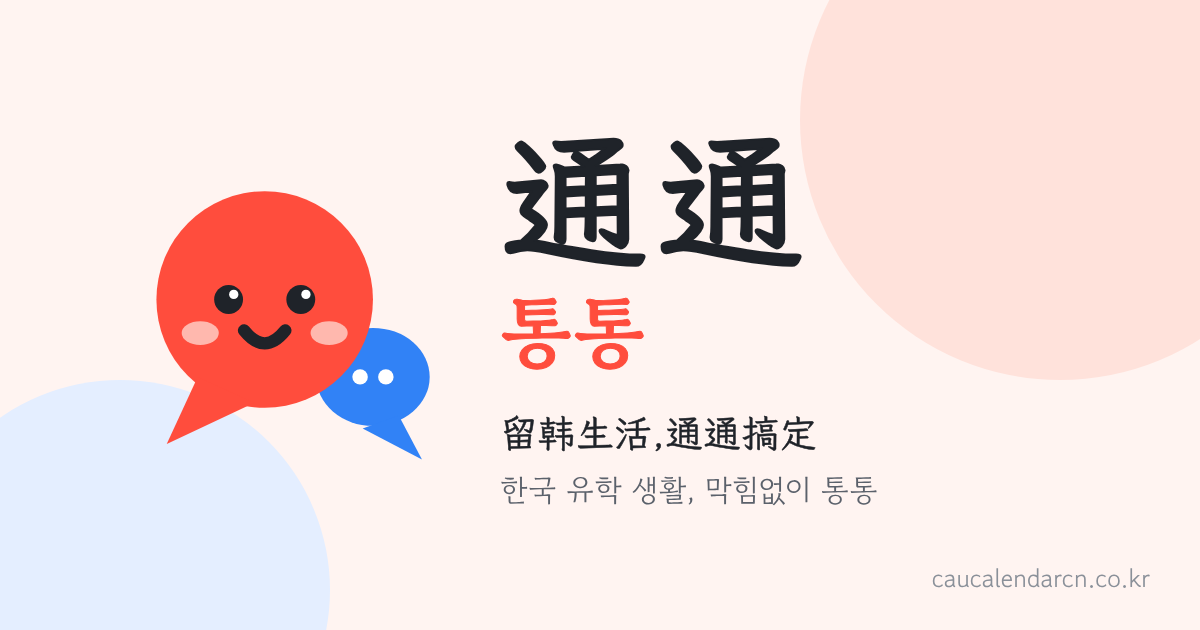
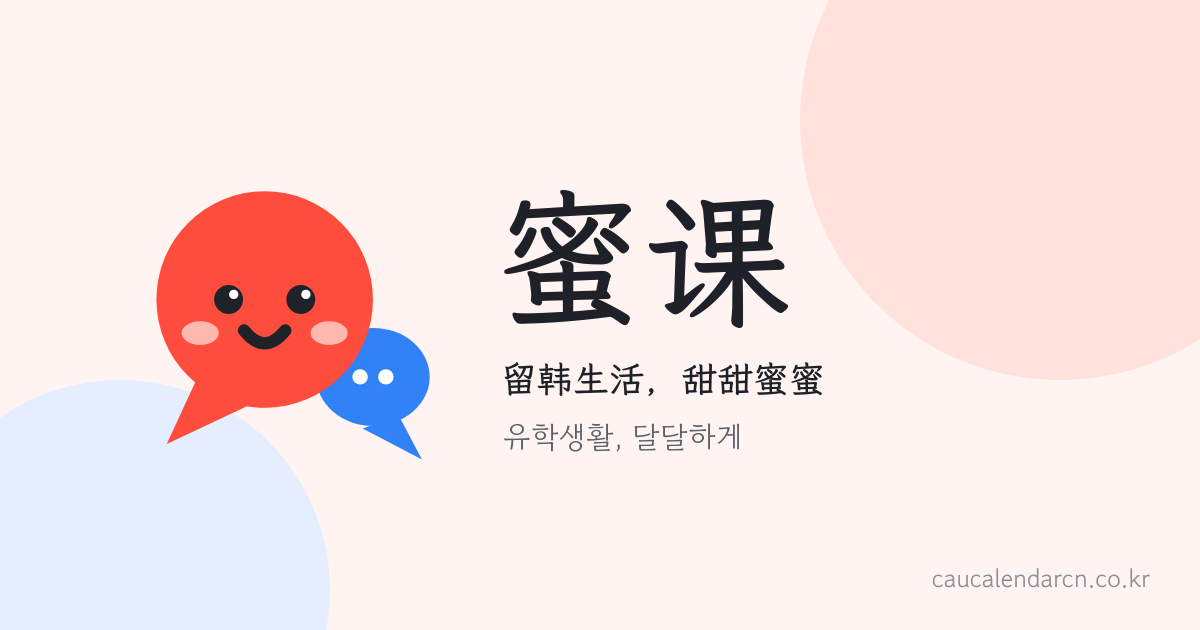
사이트명 通通→蜜课 변경, 슬로건·og 이미지 교체

Changed region(s): [[0.4008, 0.2111, 0.7092, 0.6333], [0.4008, 0.6635, 0.6783, 0.7238], [0.4008, 0.754, 0.74, 0.8143]]

diff --git a/caucalendarcn/i18n.js b/caucalendarcn/i18n.js
@@ -14,7 +14,7 @@ window.I18N = (function () {
   const D = {
     zh: {
       // ---- 공통 ----
-      brand_name: "通通",
+      brand_name: "蜜课",
       tab_cal: "日历", tab_rev: "点评", tab_board: "广场",
       login: "登录", logout: "退出", close: "关闭", cancel: "取消",
       loading: "加载中…",
@@ -22,7 +22,7 @@ window.I18N = (function () {
       lang_aria: "切换为韩语",
 
       // ---- 학사일정 ----
-      title_cal: "学期日历 · 通通",
+      title_cal: "学期日历 · 蜜课",
       cal_eyebrow: "2026年秋季学期",
       cal_h1: "学期日历",
       cal_sub: "整理自学校官方学事日程,按时间顺序列出选课、缴费、考试等重要日期。点击日期查看详情,可一键添加到 Google 日历。",
@@ -41,7 +41,7 @@ window.I18N = (function () {
       "tag_假期": "假期", "tag_截止": "截止", "tag_学期": "学期",
 
       // ---- 강의평 ----
-      title_rev: "课程点评 · 通通",
+      title_rev: "课程点评 · 蜜课",
       rev_eyebrow: "中国留学生课程点评",
       rev_h1: "课程点评",
       rev_sub: "写下你上过的课程名、教授和学分,以及真实的课程评价,所有同学都能看到。",
@@ -76,7 +76,7 @@ window.I18N = (function () {
 
       // ---- 문의(Q&A) ----
       qna_link: "意见反馈 · 问答",
-      title_qna: "意见反馈 · 通通",
+      title_qna: "意见反馈 · 蜜课",
       qna_eyebrow: "意见反馈 · 问答",
       qna_h1: "意见反馈",
       qna_sub: "对网站有建议、发现错误或有疑问,都可以在这里留言,运营者会回复。所有留言均为匿名,所有人可见。",
@@ -97,7 +97,7 @@ window.I18N = (function () {
       qna_footer: "留言将保存在服务器(Supabase)并对所有访客公开,请勿填写真实姓名或敏感信息。",
 
       // ---- 게시판 ----
-      title_board: "广场 · 通通",
+      title_board: "广场 · 蜜课",
       board_h1: "广场",
       refresh: "刷新", write_post: "写帖子",
       title_ph: "标题", body_ph: "请勿填写他人真实姓名、联系方式等个人信息。",
@@ -129,7 +129,7 @@ window.I18N = (function () {
       badge_me: "我", badge_anon: "匿",
       ago_now: "刚刚",
       ago_min: (n) => n + "分钟前", ago_hour: (n) => n + "小时前", ago_day: (n) => n + "天前",
-      board_footer: "禁止人身攻击、辱骂、歧视、广告及涉及他人隐私的内容。被举报 5 次以上自动隐藏。<br />帖子内容的法律责任由作者本人承担。· 通通 社区",
+      board_footer: "禁止人身攻击、辱骂、歧视、广告及涉及他人隐私的内容。被举报 5 次以上自动隐藏。<br />帖子内容的法律责任由作者本人承担。· 蜜课 社区",
 
       // ---- 로그인 모달 ----
       auth_login_title: "登录", auth_signup_title: "注册", auth_verify_title: "验证邮箱",
@@ -158,7 +158,7 @@ window.I18N = (function () {
 
     ko: {
       // ---- 공통 ----
-      brand_name: "통통",
+      brand_name: "蜜课",
       tab_cal: "학사일정", tab_rev: "강의평", tab_board: "게시판",
       login: "로그인", logout: "로그아웃", close: "닫기", cancel: "취소",
       loading: "불러오는 중…",
@@ -166,7 +166,7 @@ window.I18N = (function () {
       lang_aria: "중국어로 전환",
 
       // ---- 학사일정 ----
-      title_cal: "학사일정 · 통통",
+      title_cal: "학사일정 · 蜜课",
       cal_eyebrow: "2026학년도 2학기",
       cal_h1: "학사일정",
       cal_sub: "학교 공식 학사일정을 날짜순으로 정리했어요. 수강신청·등록금 납부·시험 등 주요 일정을 날짜를 눌러 확인하고, Google 캘린더에 바로 추가할 수 있습니다.",
@@ -185,7 +185,7 @@ window.I18N = (function () {
       "tag_假期": "방학·휴일", "tag_截止": "마감", "tag_学期": "학기",
 
       // ---- 강의평 ----
-      title_rev: "강의평 · 통통",
+      title_rev: "강의평 · 蜜课",
       rev_eyebrow: "중국인 유학생 강의평",
       rev_h1: "강의평 게시판",
       rev_sub: "수강했던 강의의 강의명·교수님·학점과 함께 솔직한 강의평을 남겨주세요. 모든 회원이 함께 볼 수 있는 공유 게시판입니다.",
@@ -220,7 +220,7 @@ window.I18N = (function () {
 
       // ---- 문의(Q&A) ----
       qna_link: "문의 · 건의하기",
-      title_qna: "문의 · 건의 · 통통",
+      title_qna: "문의 · 건의 · 蜜课",
       qna_eyebrow: "문의 · 건의",
       qna_h1: "문의 · 건의 게시판",
       qna_sub: "사이트에 대한 건의, 오류 제보, 궁금한 점을 남겨주세요. 운영자가 답변드립니다. 모든 글은 익명이며 누구나 볼 수 있습니다.",
@@ -241,7 +241,7 @@ window.I18N = (function () {
       qna_footer: "작성한 글은 Supabase 데이터베이스에 저장되어 모든 방문자에게 공개됩니다. 실명이나 민감한 개인정보는 남기지 말아주세요.",
 
       // ---- 게시판 ----
-      title_board: "게시판 · 통통",
+      title_board: "게시판 · 蜜课",
       board_h1: "자유게시판",
       refresh: "새로고침", write_post: "글쓰기",
       title_ph: "제목", body_ph: "타인의 실명·연락처 등 개인정보는 작성하지 마세요.",
@@ -273,7 +273,7 @@ window.I18N = (function () {
       badge_me: "나", badge_anon: "익",
       ago_now: "방금",
       ago_min: (n) => n + "분 전", ago_hour: (n) => n + "시간 전", ago_day: (n) => n + "일 전",
-      board_footer: "인신공격·욕설·차별·광고 및 타인의 사생활을 침해하는 내용은 금지됩니다. 신고 5회 이상 시 자동으로 숨김 처리됩니다.<br />게시물에 대한 법적 책임은 작성자 본인에게 있습니다. · 통통 커뮤니티",
+      board_footer: "인신공격·욕설·차별·광고 및 타인의 사생활을 침해하는 내용은 금지됩니다. 신고 5회 이상 시 자동으로 숨김 처리됩니다.<br />게시물에 대한 법적 책임은 작성자 본인에게 있습니다. · 蜜课 커뮤니티",
 
       // ---- 로그인 모달 ----
       auth_login_title: "로그인", auth_signup_title: "회원가입", auth_verify_title: "이메일 인증",

diff --git a/caucalendarcn/board.html b/caucalendarcn/board.html
@@ -2,14 +2,14 @@
 <html lang="zh-CN">
 <head>
 <meta charset="utf-8" />
-<title data-i18n="title_board">广场 · 通通</title>
+<title data-i18n="title_board">广场 · 蜜课</title>
 <meta name="viewport" content="width=device-width, initial-scale=1" />
 <link rel="icon" type="image/svg+xml" href="favicon.svg">
 <link rel="apple-touch-icon" href="apple-touch-icon.png">
-<meta name="description" content="通通 통통 — 在韩中国留学生社区:学期日历、课程点评、自由交流。留韩生活,通通搞定。" />
-<meta property="og:site_name" content="通通 통통">
-<meta property="og:title" content="通通 통통 · 在韩中国留学生社区">
-<meta property="og:description" content="学期日历 · 课程点评 · 自由交流。留韩生活,通通搞定。">
+<meta name="description" content="蜜课 — 在韩中国留学生社区:学期日历、课程点评、自由交流。留韩生活，甜甜蜜蜜。" />
+<meta property="og:site_name" content="蜜课">
+<meta property="og:title" content="蜜课 · 在韩中国留学生社区">
+<meta property="og:description" content="学期日历 · 课程点评 · 自由交流。留韩生活，甜甜蜜蜜。">
 <meta property="og:image" content="https://caucalendarcn.co.kr/og.png">
 <meta name="twitter:card" content="summary_large_image">
 
@@ -179,7 +179,7 @@ footer{
 
 <nav class="topnav">
   <div class="topnav-inner">
-    <a class="brand" href="index.html"><img class="brand-mark" src="logo.svg" alt="" width="30" height="30"><span class="brand-name" data-i18n="brand_name">通通</span></a>
+    <a class="brand" href="index.html"><img class="brand-mark" src="logo.svg" alt="" width="30" height="30"><span class="brand-name" data-i18n="brand_name">蜜课</span></a>
     <div class="tabs">
       <a href="index.html"   class="tab-link"><svg class="tab-ic" viewBox="0 0 24 24"><rect x="3" y="5" width="18" height="16" rx="3"/><path d="M3 10h18M8 3v4M16 3v4"/></svg><span data-i18n="tab_cal">日历</span></a>
       <a href="reviews.html" class="tab-link"><svg class="tab-ic" viewBox="0 0 24 24"><path d="M12 3l2.6 5.6 6.1.6-4.6 4.1 1.3 6-5.4-3.1-5.4 3.1 1.3-6-4.6-4.1 6.1-.6z"/></svg><span data-i18n="tab_rev">点评</span></a>

diff --git a/caucalendarcn/index.html b/caucalendarcn/index.html
@@ -1,12 +1,12 @@
 <meta charset="utf-8" />
-<title data-i18n="title_cal">学期日历 · 通通</title>
+<title data-i18n="title_cal">学期日历 · 蜜课</title>
 <meta name="viewport" content="width=device-width, initial-scale=1" />
 <link rel="icon" type="image/svg+xml" href="favicon.svg">
 <link rel="apple-touch-icon" href="apple-touch-icon.png">
-<meta name="description" content="通通 통통 — 在韩中国留学生社区:学期日历、课程点评、自由交流。留韩生活,通通搞定。" />
-<meta property="og:site_name" content="通通 통통">
-<meta property="og:title" content="通通 통통 · 在韩中国留学生社区">
-<meta property="og:description" content="学期日历 · 课程点评 · 自由交流。留韩生活,通通搞定。">
+<meta name="description" content="蜜课 — 在韩中国留学生社区:学期日历、课程点评、自由交流。留韩生活，甜甜蜜蜜。" />
+<meta property="og:site_name" content="蜜课">
+<meta property="og:title" content="蜜课 · 在韩中国留学生社区">
+<meta property="og:description" content="学期日历 · 课程点评 · 自由交流。留韩生活，甜甜蜜蜜。">
 <meta property="og:image" content="https://caucalendarcn.co.kr/og.png">
 <meta name="twitter:card" content="summary_large_image">
 
@@ -16,7 +16,7 @@
 
 <nav class="topnav">
   <div class="topnav-inner">
-    <a class="brand" href="index.html"><img class="brand-mark" src="logo.svg" alt="" width="30" height="30"><span class="brand-name" data-i18n="brand_name">通通</span></a>
+    <a class="brand" href="index.html"><img class="brand-mark" src="logo.svg" alt="" width="30" height="30"><span class="brand-name" data-i18n="brand_name">蜜课</span></a>
     <div class="tabs">
       <a href="index.html" class="tab-link active"><svg class="tab-ic" viewBox="0 0 24 24"><rect x="3" y="5" width="18" height="16" rx="3"/><path d="M3 10h18M8 3v4M16 3v4"/></svg><span data-i18n="tab_cal">日历</span></a>
       <a href="reviews.html" class="tab-link"><svg class="tab-ic" viewBox="0 0 24 24"><path d="M12 3l2.6 5.6 6.1.6-4.6 4.1 1.3 6-5.4-3.1-5.4 3.1 1.3-6-4.6-4.1 6.1-.6z"/></svg><span data-i18n="tab_rev">点评</span></a>

diff --git a/caucalendarcn/reviews.html b/caucalendarcn/reviews.html
@@ -1,12 +1,12 @@
 <meta charset="utf-8" />
-<title data-i18n="title_rev">课程点评 · 通通</title>
+<title data-i18n="title_rev">课程点评 · 蜜课</title>
 <meta name="viewport" content="width=device-width, initial-scale=1" />
 <link rel="icon" type="image/svg+xml" href="favicon.svg">
 <link rel="apple-touch-icon" href="apple-touch-icon.png">
-<meta name="description" content="通通 통통 — 在韩中国留学生社区:学期日历、课程点评、自由交流。留韩生活,通通搞定。" />
-<meta property="og:site_name" content="通通 통통">
-<meta property="og:title" content="通通 통통 · 在韩中国留学生社区">
-<meta property="og:description" content="学期日历 · 课程点评 · 自由交流。留韩生活,通通搞定。">
+<meta name="description" content="蜜课 — 在韩中国留学生社区:学期日历、课程点评、自由交流。留韩生活，甜甜蜜蜜。" />
+<meta property="og:site_name" content="蜜课">
+<meta property="og:title" content="蜜课 · 在韩中国留学生社区">
+<meta property="og:description" content="学期日历 · 课程点评 · 自由交流。留韩生活，甜甜蜜蜜。">
 <meta property="og:image" content="https://caucalendarcn.co.kr/og.png">
 <meta name="twitter:card" content="summary_large_image">
 
@@ -16,7 +16,7 @@
 
 <nav class="topnav">
   <div class="topnav-inner">
-    <a class="brand" href="index.html"><img class="brand-mark" src="logo.svg" alt="" width="30" height="30"><span class="brand-name" data-i18n="brand_name">通通</span></a>
+    <a class="brand" href="index.html"><img class="brand-mark" src="logo.svg" alt="" width="30" height="30"><span class="brand-name" data-i18n="brand_name">蜜课</span></a>
     <div class="tabs">
       <a href="index.html" class="tab-link"><svg class="tab-ic" viewBox="0 0 24 24"><rect x="3" y="5" width="18" height="16" rx="3"/><path d="M3 10h18M8 3v4M16 3v4"/></svg><span data-i18n="tab_cal">日历</span></a>
       <a href="reviews.html" class="tab-link active"><svg class="tab-ic" viewBox="0 0 24 24"><path d="M12 3l2.6 5.6 6.1.6-4.6 4.1 1.3 6-5.4-3.1-5.4 3.1 1.3-6-4.6-4.1 6.1-.6z"/></svg><span data-i18n="tab_rev">点评</span></a>

diff --git a/caucalendarcn/qna.html b/caucalendarcn/qna.html
@@ -1,12 +1,12 @@
 <meta charset="utf-8" />
-<title data-i18n="title_qna">意见反馈 · 通通</title>
+<title data-i18n="title_qna">意见反馈 · 蜜课</title>
 <meta name="viewport" content="width=device-width, initial-scale=1" />
 <link rel="icon" type="image/svg+xml" href="favicon.svg">
 <link rel="apple-touch-icon" href="apple-touch-icon.png">
-<meta name="description" content="通通 통통 — 在韩中国留学生社区:学期日历、课程点评、自由交流。留韩生活,通通搞定。" />
-<meta property="og:site_name" content="通通 통통">
-<meta property="og:title" content="通通 통통 · 在韩中国留学生社区">
-<meta property="og:description" content="学期日历 · 课程点评 · 自由交流。留韩生活,通通搞定。">
+<meta name="description" content="蜜课 — 在韩中国留学生社区:学期日历、课程点评、自由交流。留韩生活，甜甜蜜蜜。" />
+<meta property="og:site_name" content="蜜课">
+<meta property="og:title" content="蜜课 · 在韩中国留学生社区">
+<meta property="og:description" content="学期日历 · 课程点评 · 自由交流。留韩生活，甜甜蜜蜜。">
 <meta property="og:image" content="https://caucalendarcn.co.kr/og.png">
 <meta name="twitter:card" content="summary_large_image">
 
@@ -16,7 +16,7 @@
 
 <nav class="topnav">
   <div class="topnav-inner">
-    <a class="brand" href="index.html"><img class="brand-mark" src="logo.svg" alt="" width="30" height="30"><span class="brand-name" data-i18n="brand_name">通通</span></a>
+    <a class="brand" href="index.html"><img class="brand-mark" src="logo.svg" alt="" width="30" height="30"><span class="brand-name" data-i18n="brand_name">蜜课</span></a>
     <div class="tabs">
       <a href="index.html" class="tab-link"><svg class="tab-ic" viewBox="0 0 24 24"><rect x="3" y="5" width="18" height="16" rx="3"/><path d="M3 10h18M8 3v4M16 3v4"/></svg><span data-i18n="tab_cal">日历</span></a>
       <a href="reviews.html" class="tab-link"><svg class="tab-ic" viewBox="0 0 24 24"><path d="M12 3l2.6 5.6 6.1.6-4.6 4.1 1.3 6-5.4-3.1-5.4 3.1 1.3-6-4.6-4.1 6.1-.6z"/></svg><span data-i18n="tab_rev">点评</span></a>

diff --git a/caucalendarcn/docs/EMAIL_TEMPLATE.md b/caucalendarcn/docs/EMAIL_TEMPLATE.md
@@ -6,27 +6,27 @@ Supabase 대시보드 → **Authentication → Emails(Email Templates) → Confi
 ## 제목(Subject)
 
 ```
-[通通 통통] 邮箱验证码 · 이메일 인증번호
+[蜜课] 邮箱验证码 · 이메일 인증번호
 ```
 
 ## 본문(Message body)
 
 ```html
 <p>你好 / 안녕하세요,</p>
-<p>通通 注册验证码 / 회원가입 인증번호입니다.</p>
+<p>蜜课 注册验证码 / 회원가입 인증번호입니다.</p>
 <p style="font-size:24px;font-weight:bold;letter-spacing:4px;">{{ .Token }}</p>
 <p>请在网页的验证码输入框中填写这个数字。<br>
    웹페이지의 인증번호 입력칸에 위 숫자를 입력해주세요.</p>
 <p>如果不是你本人操作,请忽略这封邮件。<br>
    본인이 요청하지 않았다면 이 메일을 무시하세요.</p>
-<p>— 通通 통통 / caucalendarcn.co.kr</p>
+<p>— 蜜课 / caucalendarcn.co.kr</p>
 ```
 
 ## 지켜야 할 점 (스팸 필터에 덜 걸리는 요령)
 
 - 본문에 **링크를 넣지 않습니다.** (숫자만 넣는 방식이라 링크가 필요 없음)
 - 과장·광고성 표현(무료, 지금 바로, 클릭 등)과 느낌표를 쓰지 않습니다.
-- 제목과 본문이 **같은 서비스 이름(通通 통통)**을 일관되게 쓰도록 합니다.
+- 제목과 본문이 **같은 서비스 이름(蜜课)**을 일관되게 쓰도록 합니다.
 - `{{ .Token }}` 가 반드시 들어가야 인증번호 방식이 동작합니다. 빠지면 가입이 안 됩니다.
 
 ## 이 문구만으로 부족할 때
